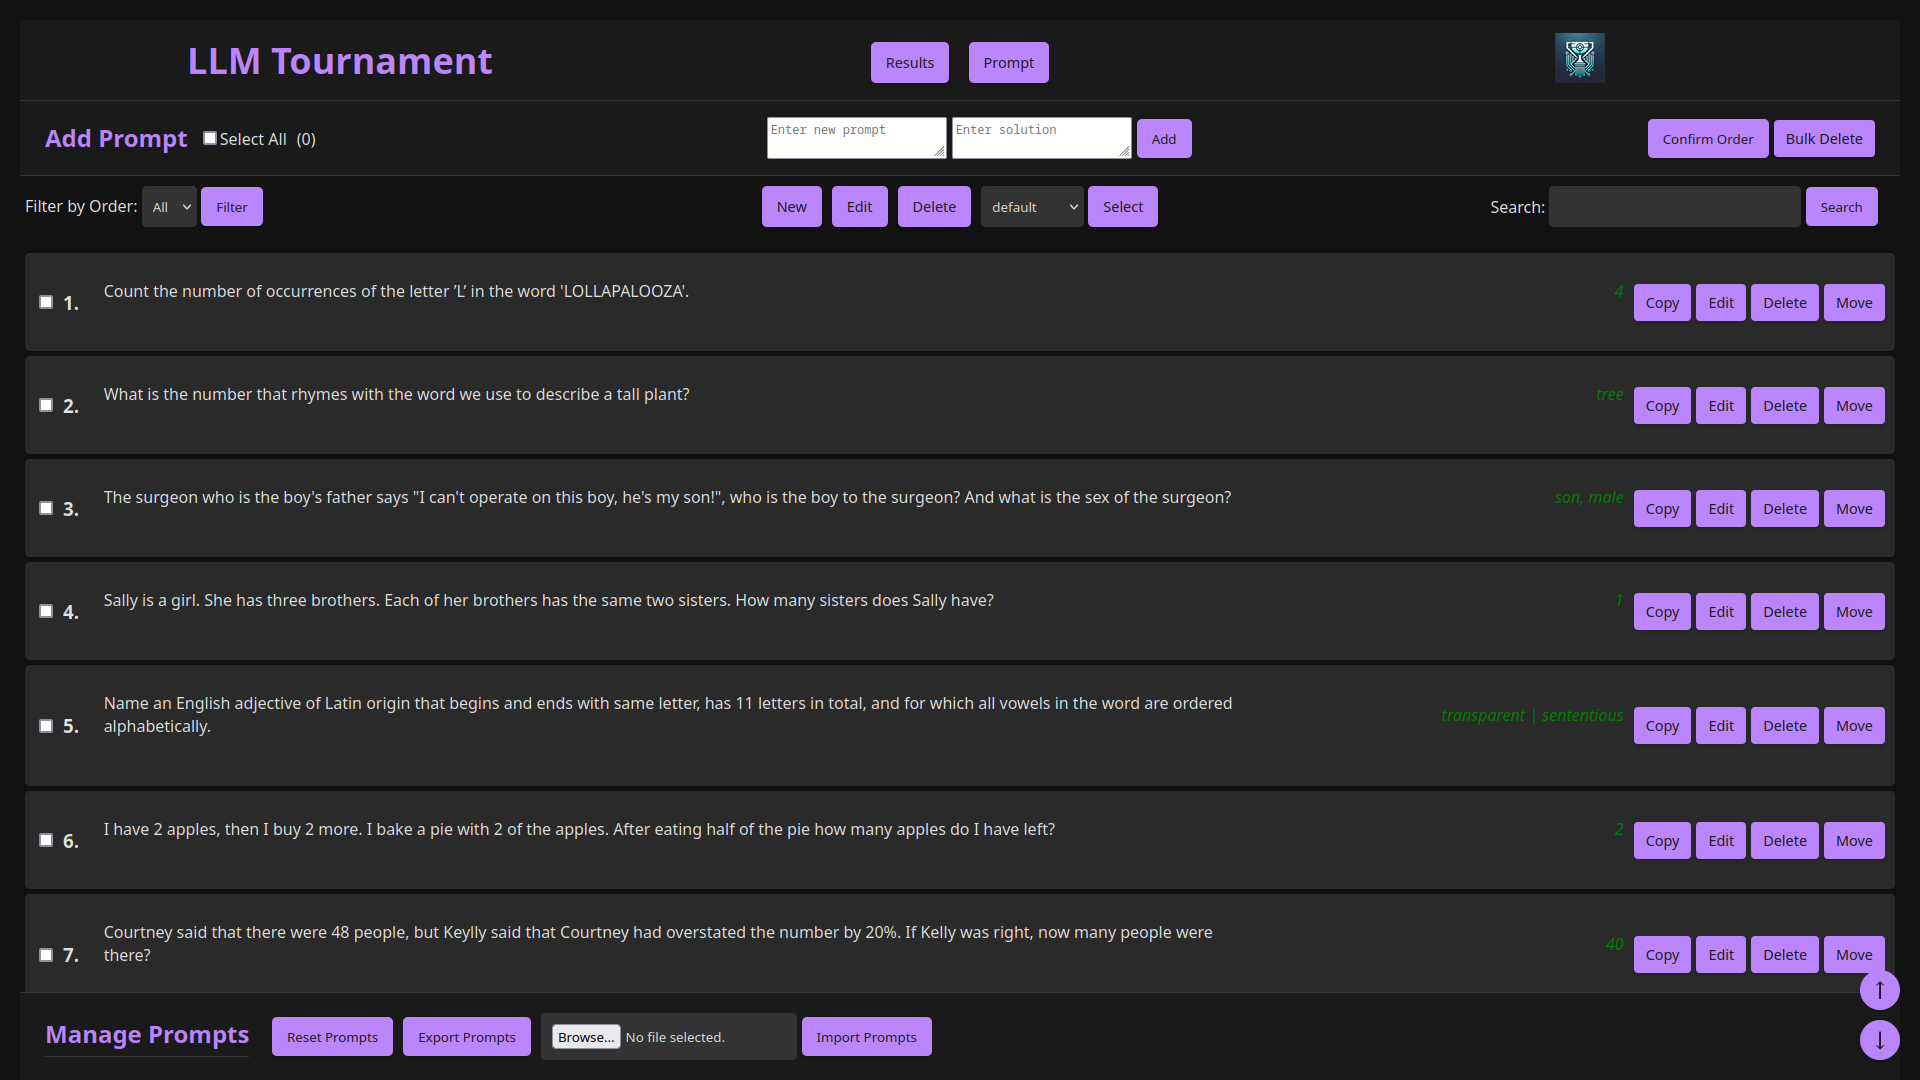
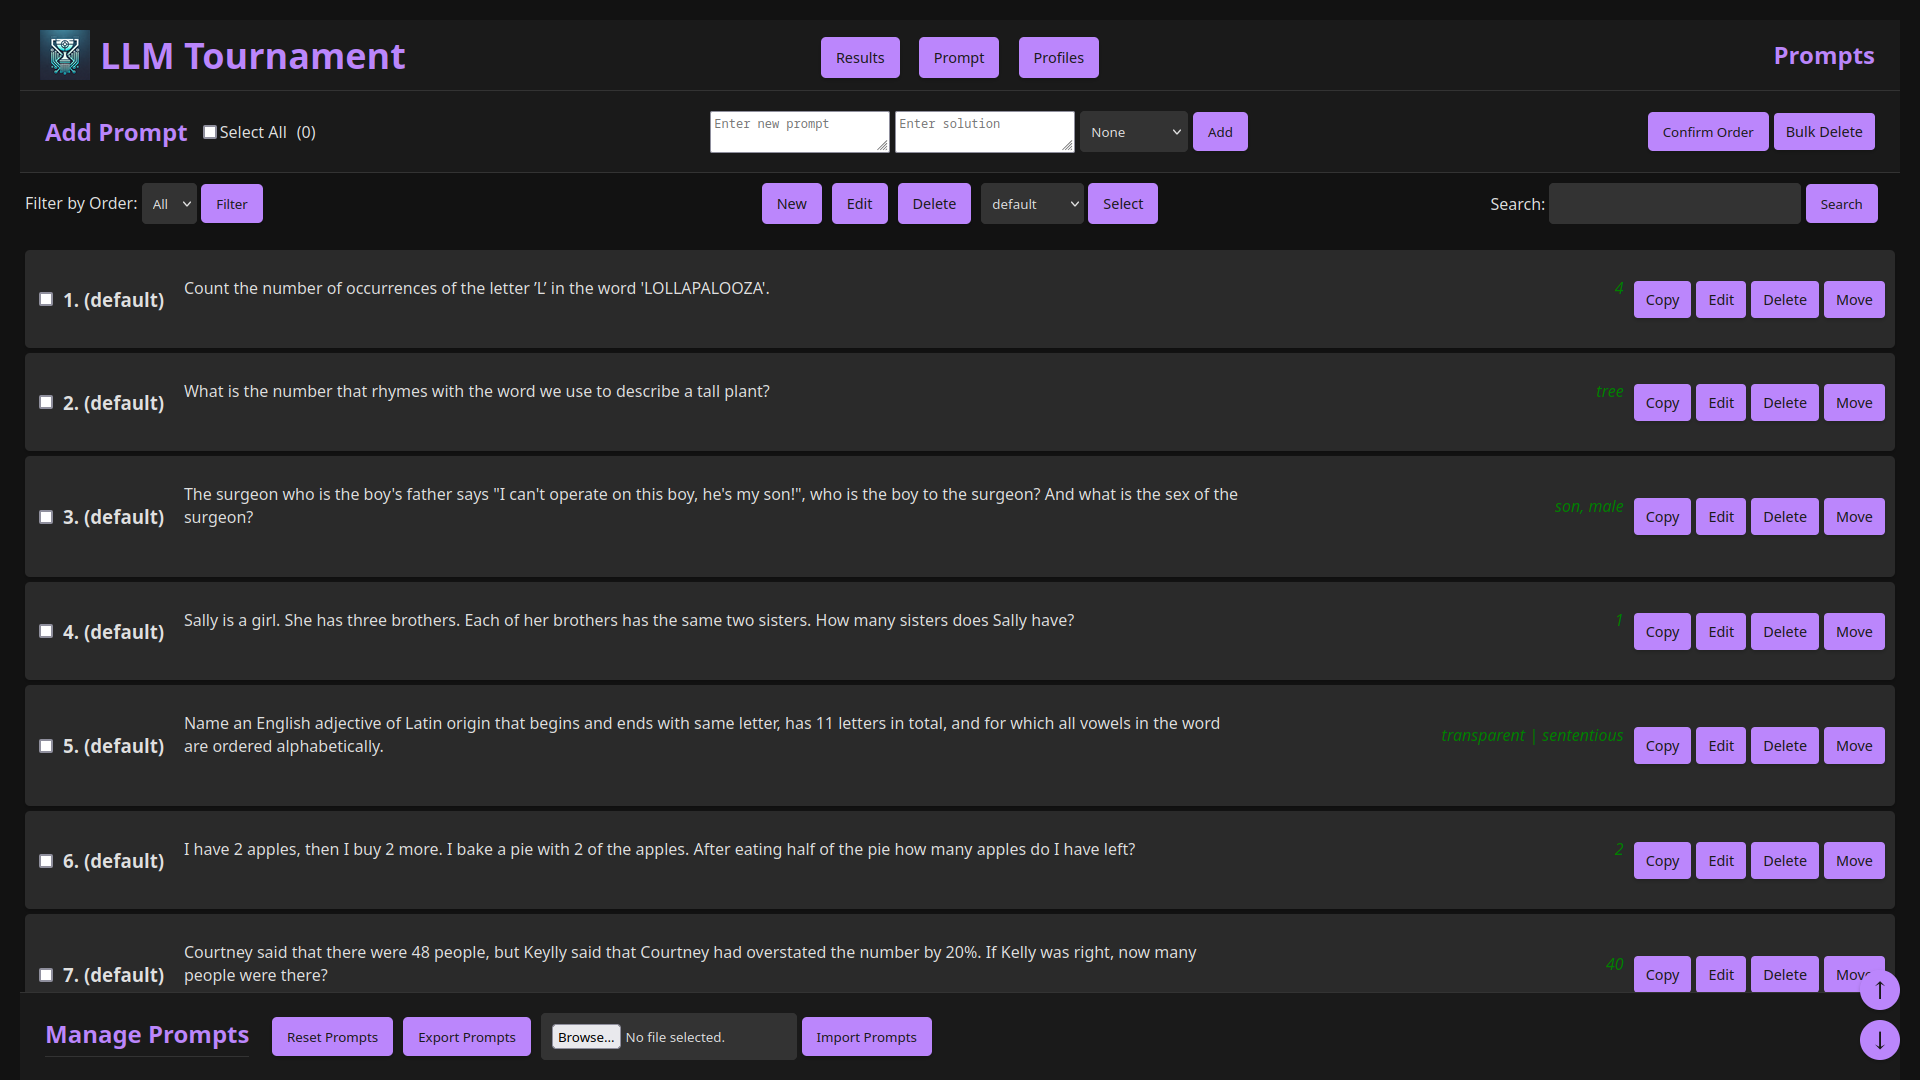
feat: ui pics

diff --git a/README.md b/README.md
@@ -47,6 +47,8 @@ This application simplifies the evaluation of Large Language Models (LLMs) with 
 
 ![result-page](./assets/ui-result-page.png)
 
+![profile-page](./assets/ui-profile-manager.png)
+
 ![prompt-edit-page](./assets/ui-prompt-edit.png)
 
 ## 🏃 Run
@@ -73,16 +75,8 @@ Anyone can just submit a PR and we'll discuss there.
 
 ## 📝 TODO/Roadmap
 
-### 🔧 Refactor
+### 🔧 Non-Functional
 
-- Change UI demo pictures after finished profiles page.
-- Refactor the prompt suite to be more roburst and streamlined, with programming focus.
 - Handbook composition prompt.
 - Make another prompt suite to test SD 3.5 vs Flux 1 Dev.
 - Make another prompt suite for vision LLMs.
-
-### 📄 3rd Page - Profiles
-
-- Profiles page similar to Prompts to store system prompts; profile input and edit have a field to enter profile's name.
-- Link prompts with profiles, prompt input and edit have drop down selection for profile based on name.
-- Display profile of each prompt after the numbering, e.g. `1. (Reasoning) prompt content. ...`
